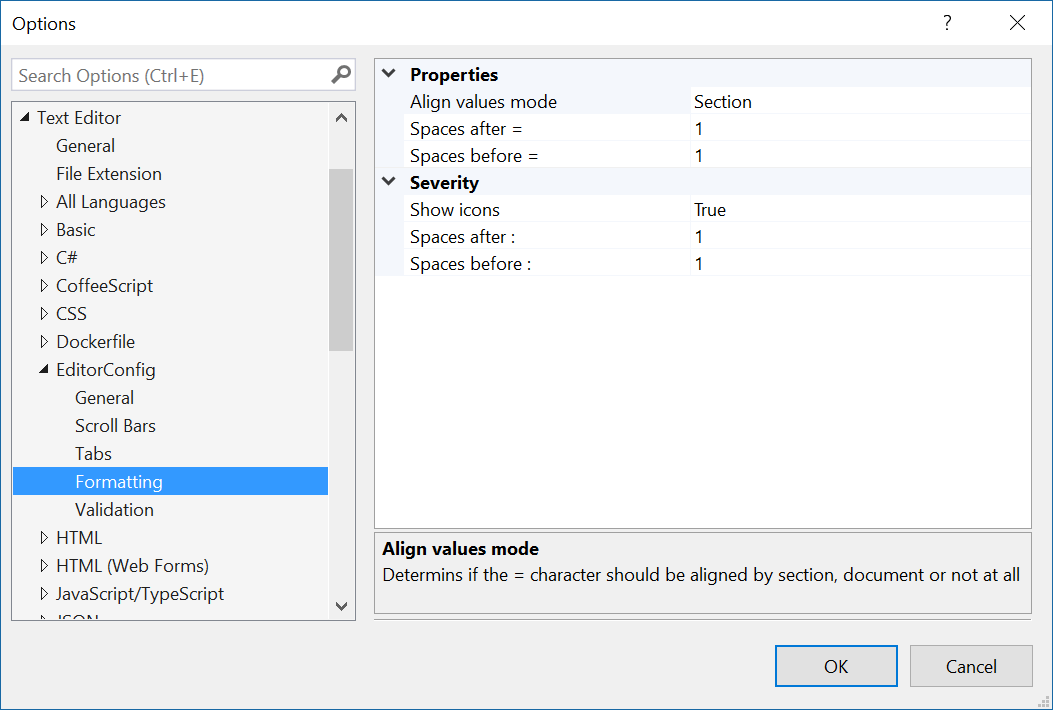
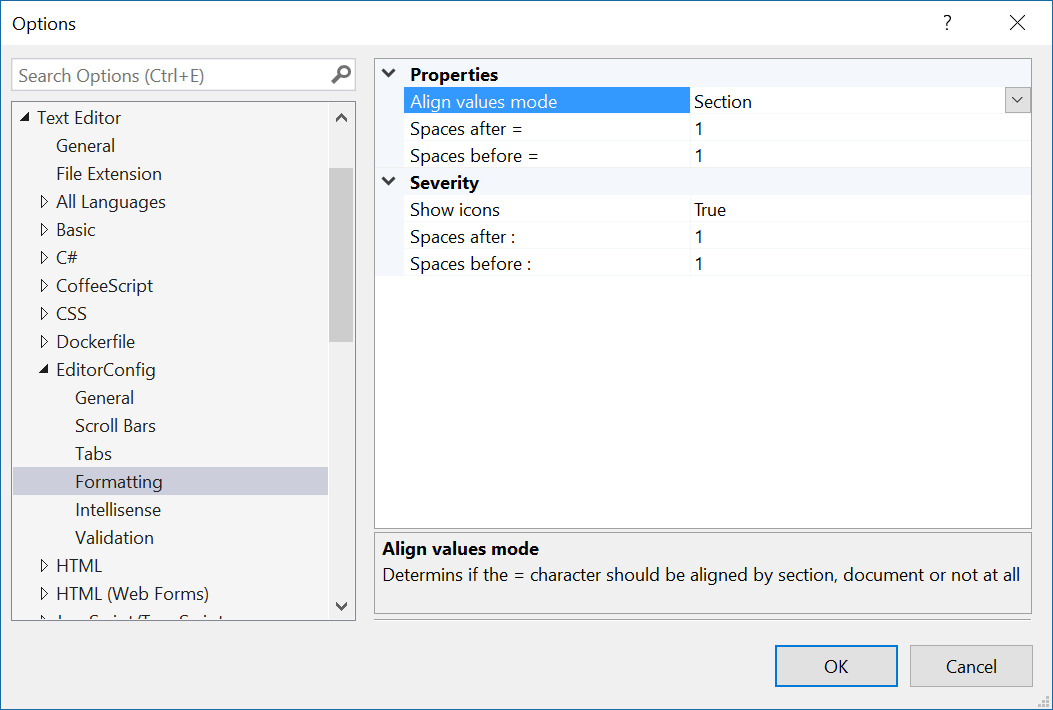
Added Intellisense options

diff --git a/src/Completion/CompletionSource.cs b/src/Completion/CompletionSource.cs
@@ -45,7 +45,8 @@ namespace EditorConfig
             if (string.IsNullOrWhiteSpace(line.GetText()) || parseItem?.ItemType == ItemType.Keyword)
             {
                 var isInRoot = !_document.ParseItems.Exists(p => p.ItemType == ItemType.Section && p.Span.Start < position);
-                var items = isInRoot ? SchemaCatalog.Keywords : SchemaCatalog.Keywords.Where(i => i.Name != SchemaCatalog.Root);
+                var properties = EditorConfigPackage.CompletionOptions.ShowHiddenKeywords ? SchemaCatalog.AllKeywords : SchemaCatalog.VisibleKeywords;
+                var items = isInRoot ? SchemaCatalog.VisibleKeywords : properties.Where(i => i.Name != SchemaCatalog.Root);
 
                 foreach (var property in items)
                     list.Add(CreateCompletion(property, property.Category));
@@ -68,18 +69,20 @@ namespace EditorConfig
             // Severity
             else if ((position > 0 && snapshot.Length > 1 && snapshot.GetText(position - 1, 1) == ":") || parseItem?.ItemType == ItemType.Severity)
             {
-                if (parseItem?.ItemType == ItemType.Unknown) // Colon was typed
+                //if (parseItem?.ItemType == ItemType.Unknown) // Colon was typed
+                //{
+                //    AddSeverity(list);
+                //}
+                //else
+                //{
+                if (prev?.ItemType == ItemType.Value && prev.Text.Is("true"))
                 {
-                    AddSeverity(list);
-                }
-                else
-                {
-                    var prop = _document.PropertyAtPosition(position);
+                    var prop = _document.PropertyAtPosition(prev.Span.Start);
                     if (SchemaCatalog.TryGetKeyword(prop?.Keyword?.Text, out Keyword key) && key.RequiresSeverity)
                         AddSeverity(list);
+                    //}
+                    moniker = "severity";
                 }
-                moniker = "severity";
-
             }
 
             if (!list.Any())

diff --git a/src/Schema/SchemaCatalog.cs b/src/Schema/SchemaCatalog.cs
@@ -14,15 +14,16 @@ namespace EditorConfig
         /// <summary>The name of the root keyword.</summary>
         public const string Root = "root";
 
-        private static IEnumerable<Keyword> _allKeywords;
-
         static SchemaCatalog()
         {
             ParseJson();
         }
 
+        /// <summary>A list of all keywords including the ones marked as hidden.</summary>
+        public static IEnumerable<Keyword> AllKeywords { get; private set; }
+
         /// <summary>A list of all visible keywords.</summary>
-        public static IEnumerable<Keyword> Keywords { get; private set; }
+        public static IEnumerable<Keyword> VisibleKeywords { get; private set; }
 
         /// <summary>A list of all severities.</summary>
         public static IEnumerable<Severity> Severities { get; private set; }
@@ -30,7 +31,7 @@ namespace EditorConfig
         /// <summary>Tries to get a keyword by name.</summary>
         public static bool TryGetKeyword(string name, out Keyword keyword)
         {
-            keyword = _allKeywords.FirstOrDefault(c => c.Name.Is(name));
+            keyword = AllKeywords.FirstOrDefault(c => c.Name.Is(name));
 
             return keyword != null;
         }
@@ -51,8 +52,8 @@ namespace EditorConfig
             var obj = JObject.Parse(File.ReadAllText(file));
 
             Severities = JsonConvert.DeserializeObject<IEnumerable<Severity>>(obj["severities"].ToString());
-            _allKeywords = JsonConvert.DeserializeObject<IEnumerable<Keyword>>(obj["properties"].ToString());
-            Keywords = _allKeywords.Where(p => p.IsVisible);
+            AllKeywords = JsonConvert.DeserializeObject<IEnumerable<Keyword>>(obj["properties"].ToString());
+            VisibleKeywords = AllKeywords.Where(p => p.IsVisible);
         }
     }
 }

diff --git a/src/EditorConfigPackage.cs b/src/EditorConfigPackage.cs
@@ -17,6 +17,7 @@ namespace EditorConfig
     [ProvideLanguageExtension(typeof(EditorConfigLanguage), Constants.FileName)]
     [ProvideLanguageEditorOptionPage(typeof(FormatterOptions), Constants.LanguageName, null, "Formatting", "#101", new[] { "editorconfig", "formatting" })]
     [ProvideLanguageEditorOptionPage(typeof(ValidationOptions), Constants.LanguageName, null, "Validation", "#102", new[] { "editorconfig", "validation" })]
+    [ProvideLanguageEditorOptionPage(typeof(CompletionOptions), Constants.LanguageName, null, "Intellisense", "#103", new[] { "editorconfig", "intellisenes", "completion" })]
 
     [ProvideEditorFactory(typeof(EditorFactory), 110, CommonPhysicalViewAttributes = (int)__VSPHYSICALVIEWATTRIBUTES.PVA_SupportsPreview, TrustLevel = __VSEDITORTRUSTLEVEL.ETL_AlwaysTrusted)]
     [ProvideEditorLogicalView(typeof(EditorFactory), VSConstants.LOGVIEWID.TextView_string, IsTrusted = true)]
@@ -44,11 +45,18 @@ namespace EditorConfig
             private set;
         }
 
+        public static CompletionOptions CompletionOptions
+        {
+            get;
+            private set;
+        }
+
         protected override async Task InitializeAsync(CancellationToken cancellationToken, IProgress<ServiceProgressData> progress)
         {
             Language = new EditorConfigLanguage(this);
             FormatterOptions = (FormatterOptions)GetDialogPage(typeof(FormatterOptions));
             ValidationOptions = (ValidationOptions)GetDialogPage(typeof(ValidationOptions));
+            CompletionOptions = (CompletionOptions)GetDialogPage(typeof(CompletionOptions));
 
             var serviceContainer = this as IServiceContainer;
             serviceContainer.AddService(typeof(EditorConfigLanguage), Language, true);

diff --git a/src/Completion/CompletionOptions.cs b/src/Completion/CompletionOptions.cs
@@ -1,0 +1,24 @@
+using Microsoft.VisualStudio.Shell;
+using System;
+using System.ComponentModel;
+
+namespace EditorConfig
+{
+    public class CompletionOptions : DialogPage
+    {
+        // General
+        private const string _intellisense = "Intellisense";
+
+        [Category(_intellisense)]
+        [DisplayName("Auto-insert delimiters")]
+        [Description("This will automatically insert \"=\" and \":\" characters on commit.")]
+        [DefaultValue(true)]
+        public bool AutoInsertDelimiters { get; set; } = true;
+
+        [Category(_intellisense)]
+        [DisplayName("Show undocumented properties")]
+        [Description("This will show undocumented properties in Intellisense.")]
+        [DefaultValue(false)]
+        public bool ShowHiddenKeywords { get; set; }
+    }
+}

diff --git a/src/Completion/CompletionController.cs b/src/Completion/CompletionController.cs
@@ -127,6 +127,9 @@ namespace EditorConfig
                 string moniker = _currentSession.SelectedCompletionSet.Moniker;
                 _currentSession.Commit();
 
+                if (!EditorConfigPackage.CompletionOptions.AutoInsertDelimiters)
+                    return true;
+
                 var position = TextView.Caret.Position.BufferPosition;
 
                 if (moniker == "keyword")

diff --git a/CHANGELOG.md b/CHANGELOG.md
@@ -11,6 +11,7 @@
 - [x] Add XMLDoc comments
 - [x] Add validation for unneeded properties
 - [x] Insert "=" and ":" on Intellisense commit
+- [x] Added Intellisense options
 - [ ] Switch icons to the official .editorconfig icon
 - [ ] Add item template for .editorconfig files
 
